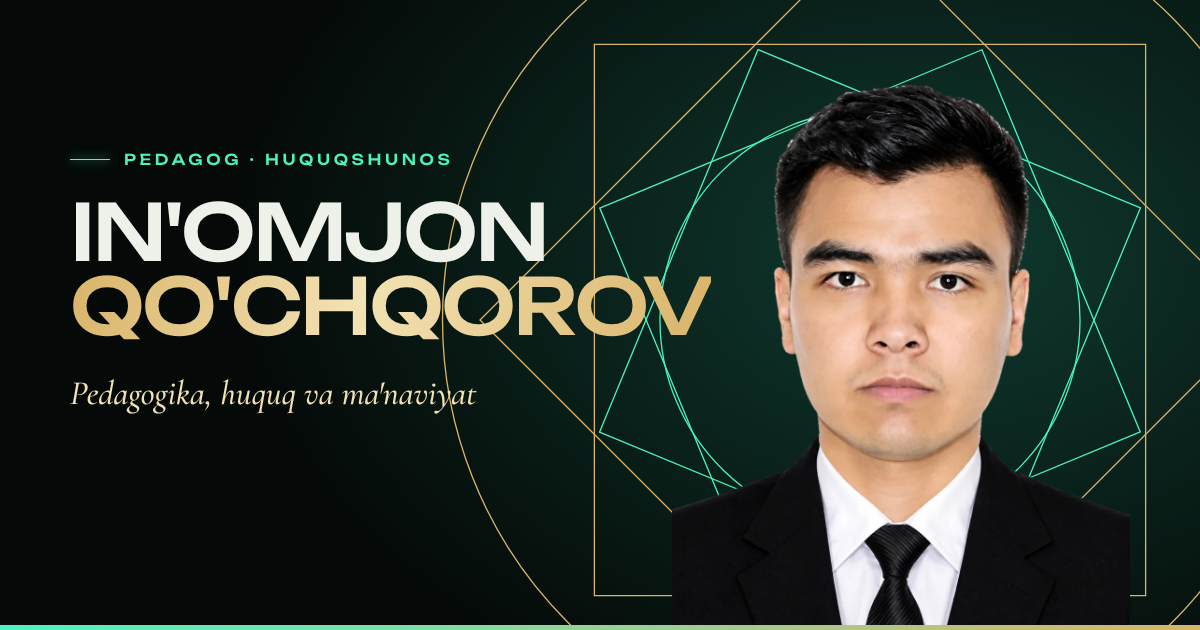
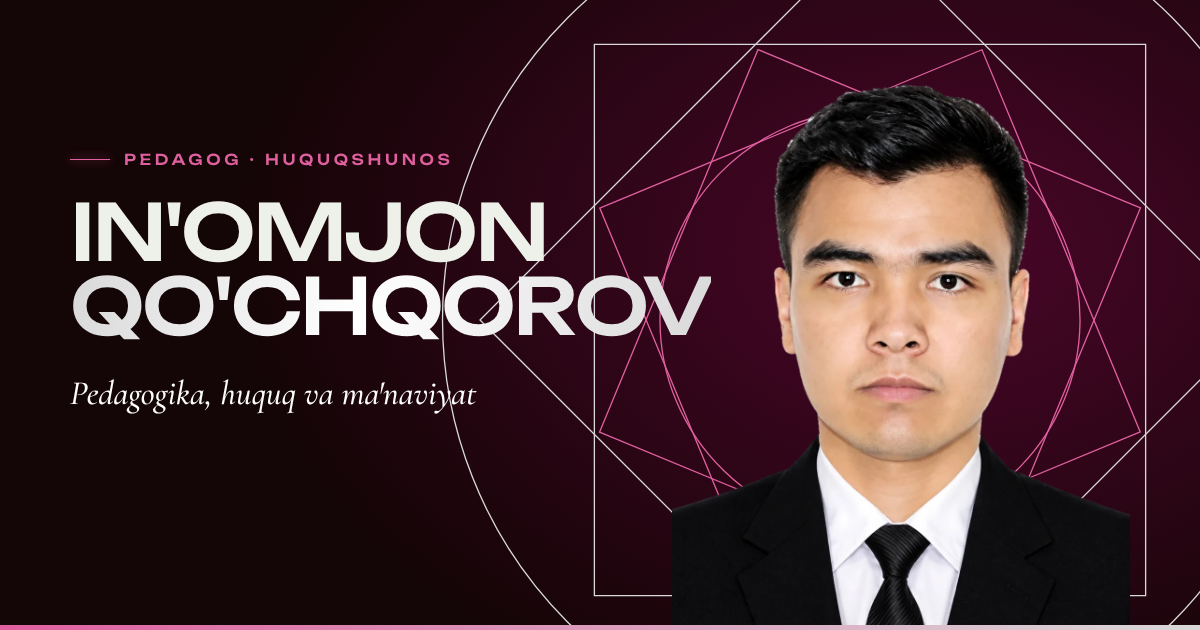
Add plum palette (default) with live palette switcher; keep emerald as option
Claude-Session: https://claude.ai/code/session_0118CwR9mdfuLAeK9pc92P3Z

diff --git a/src/styles.css b/src/styles.css
@@ -1,19 +1,31 @@
 /* ---------- tokens ---------- */
 @property --ang { syntax: '<angle>'; initial-value: 0deg; inherits: false; }
 :root {
-  --bg: #050a08;
-  --bg-2: #08130f;
-  --text: #eef1e9;
-  --muted: #9db0a6;
-  --line: rgba(238, 241, 233, 0.12);
-  --mint: #4df2c0;
-  --gold: #d9b46a;
-  --gold-hi: #f3e2b3;
+  /* default palette: "plum" — near-black, burgundy, plum, grey, light grey */
+  --bg: #140506; --bg-rgb: 20, 5, 6; --bg-2: #1d0509;
+  --text: #ece8e9; --text-rgb: 236, 232, 233;
+  --muted: #a8a0a3;
+  --mint: #e0609f; --mint-rgb: 224, 96, 159;          /* luminous accent (tint of the plum) */
+  --gold: #d9d9d9; --gold-rgb: 217, 217, 217;          /* light-grey "metal" */
+  --gold-hi: #ffffff; --gold-hot: #f4eef1;
+  --hero-1: #3a0420; --card-1: #2a0516; --card-2: #190408;
+  --gl-bg: .078, .02, .024; --gl-aur: .33, .01, .2; --gl-a: .88, .38, .62; --gl-b: .85, .85, .87;
+  --line: rgba(var(--text-rgb), .12);
   --display: 'Unbounded', 'Manrope', system-ui, sans-serif;
   --serif: 'Cormorant Garamond', 'Iowan Old Style', Georgia, serif;
   --sans: 'Manrope', system-ui, -apple-system, 'Segoe UI', Roboto, sans-serif;
   --ease: cubic-bezier(0.22, 1, 0.36, 1);
   color-scheme: dark;
+}
+:root[data-pal='emerald'] {
+  --bg: #050a08; --bg-rgb: 5, 10, 8; --bg-2: #08130f;
+  --text: #eef1e9; --text-rgb: 238, 241, 233;
+  --muted: #9db0a6;
+  --mint: #4df2c0; --mint-rgb: 77, 242, 192;
+  --gold: #d9b46a; --gold-rgb: 217, 180, 106;
+  --gold-hi: #f3e2b3; --gold-hot: #fff2c8;
+  --hero-1: #0d2b23; --card-1: #0e1c17; --card-2: #08110e;
+  --gl-bg: .016, .035, .03; --gl-aur: .02, .22, .16; --gl-a: .3, .95, .75; --gl-b: .85, .68, .38;
 }
 
 /* ---------- base ---------- */
@@ -35,7 +47,7 @@ button { font: inherit; color: inherit; background: none; border: 0; cursor: poi
 .skip { position: absolute; left: -999px; top: 8px; z-index: 100; background: var(--mint); color: var(--bg); padding: .6rem 1rem; border-radius: 8px; }
 .skip:focus { left: 8px; }
 
-#gl { position: fixed; inset: 0; width: 100%; height: 100%; z-index: -2; opacity: var(--gl, 1); background: radial-gradient(120% 90% at 70% 10%, #0d2b23, var(--bg) 60%); }
+#gl { position: fixed; inset: 0; width: 100%; height: 100%; z-index: -2; opacity: var(--gl, 1); background: radial-gradient(120% 90% at 70% 10%, var(--hero-1), var(--bg) 60%); }
 .progress { position: fixed; inset: 0 0 auto; height: 2px; z-index: 80; }
 .progress i { display: block; height: 100%; width: 100%; background: linear-gradient(90deg, var(--mint), var(--gold)); transform: scaleX(0); transform-origin: left; box-shadow: 0 0 12px var(--mint); }
 
@@ -47,16 +59,16 @@ button { font: inherit; color: inherit; background: none; border: 0; cursor: poi
 }
 /* cursor-following spotlight */
 .spot { position: relative; overflow: hidden; }
-.spot::before { content: ''; position: absolute; inset: 0; pointer-events: none; opacity: 0; transition: opacity .4s; background: radial-gradient(420px circle at var(--mx, 50%) var(--my, 50%), rgba(77, 242, 192, .16), transparent 60%); }
+.spot::before { content: ''; position: absolute; inset: 0; pointer-events: none; opacity: 0; transition: opacity .4s; background: radial-gradient(420px circle at var(--mx, 50%) var(--my, 50%), rgba(var(--mint-rgb), .16), transparent 60%); }
 .spot:hover::before { opacity: 1; }
 
 /* ---------- cursor ---------- */
 .cursor { display: none; }
 @media (hover: hover) and (pointer: fine) {
   .cursor { display: block; position: fixed; inset: 0; pointer-events: none; z-index: 90; }
-  .cursor i { position: absolute; left: 0; top: 0; width: 38px; height: 38px; margin: -19px 0 0 -19px; border: 1px solid rgba(77, 242, 192, .7); border-radius: 50%; transition: width .3s var(--ease), height .3s var(--ease), margin .3s var(--ease), background .3s, border-color .3s; mix-blend-mode: screen; opacity: 0; }
+  .cursor i { position: absolute; left: 0; top: 0; width: 38px; height: 38px; margin: -19px 0 0 -19px; border: 1px solid rgba(var(--mint-rgb), .7); border-radius: 50%; transition: width .3s var(--ease), height .3s var(--ease), margin .3s var(--ease), background .3s, border-color .3s; mix-blend-mode: screen; opacity: 0; }
   .cursor.on i { opacity: 1; }
-  .cursor.big i { width: 70px; height: 70px; margin: -35px 0 0 -35px; background: rgba(77, 242, 192, .12); border-color: var(--gold); }
+  .cursor.big i { width: 70px; height: 70px; margin: -35px 0 0 -35px; background: rgba(var(--mint-rgb), .12); border-color: var(--gold); }
 }
 
 /* ---------- header ---------- */
@@ -66,7 +78,7 @@ button { font: inherit; color: inherit; background: none; border: 0; cursor: poi
 .brand svg { width: 26px; height: 26px; color: var(--gold); transition: transform .8s var(--ease); }
 .brand:hover svg { transform: rotate(45deg); }
 .nav { display: flex; gap: 1.8rem; font-size: .84rem; font-weight: 600; letter-spacing: .03em; }
-.nav a { position: relative; padding: .3rem 0; color: rgba(238, 241, 233, .75); transition: color .2s; }
+.nav a { position: relative; padding: .3rem 0; color: rgba(var(--text-rgb), .75); transition: color .2s; }
 .nav a::after { content: ''; position: absolute; left: 0; right: 0; bottom: -2px; height: 1px; background: var(--mint); box-shadow: 0 0 8px var(--mint); transform: scaleX(0); transform-origin: left; transition: transform .45s var(--ease); }
 .nav a:hover { color: #fff; }
 .nav a:hover::after, .nav a.active::after { transform: scaleX(1); }
@@ -76,6 +88,10 @@ button { font: inherit; color: inherit; background: none; border: 0; cursor: poi
 .langs a { font: 600 .68rem/1 var(--display); letter-spacing: .06em; padding: .45rem .7rem; border-radius: 99px; transition: background .25s, color .25s; color: var(--muted); }
 .langs a:hover { color: #fff; }
 .langs a[aria-current] { background: linear-gradient(135deg, var(--gold-hi), var(--gold)); color: var(--bg); }
+.pal { display: flex; gap: .35rem; padding: 0 .3rem; }
+.pal button { width: 20px; height: 20px; border-radius: 50%; background: radial-gradient(circle at 35% 30%, #fff8, transparent 45%), var(--c); border: 2px solid transparent; outline: 1px solid rgba(var(--text-rgb), .25); outline-offset: 2px; transition: transform .3s var(--ease), outline-color .3s; }
+.pal button:hover { transform: scale(1.15); }
+.pal button[aria-pressed='true'] { outline: 2px solid var(--text); }
 .burger { display: none; position: relative; width: 40px; height: 40px; border-radius: 50%; }
 .burger span { position: absolute; left: 11px; right: 11px; height: 1.5px; background: currentColor; transition: transform .35s var(--ease), top .35s var(--ease); }
 .burger span:first-child { top: 16px; }
@@ -84,7 +100,7 @@ button { font: inherit; color: inherit; background: none; border: 0; cursor: poi
 .burger[aria-expanded='true'] span:last-child { top: 19px; transform: rotate(-45deg); }
 @media (max-width: 980px) {
   .burger { display: block; }
-  .nav { position: fixed; inset: 0; flex-direction: column; justify-content: center; gap: .4rem; padding: 6rem 2rem 3rem; background: rgba(5, 10, 8, .96); -webkit-backdrop-filter: blur(20px); backdrop-filter: blur(20px); opacity: 0; visibility: hidden; transition: opacity .35s, visibility .35s; z-index: -1; pointer-events: auto; }
+  .nav { position: fixed; inset: 0; flex-direction: column; justify-content: center; gap: .4rem; padding: 6rem 2rem 3rem; background: rgba(var(--bg-rgb), .96); -webkit-backdrop-filter: blur(20px); backdrop-filter: blur(20px); opacity: 0; visibility: hidden; transition: opacity .35s, visibility .35s; z-index: -1; pointer-events: auto; }
   .nav.open { opacity: 1; visibility: visible; }
   .nav a { font: 500 clamp(1.8rem, 8vw, 2.6rem)/1.2 var(--display); padding: .6rem 0; color: var(--text); }
 }
@@ -95,18 +111,18 @@ button { font: inherit; color: inherit; background: none; border: 0; cursor: poi
 .scene { position: relative; height: max(100svh, 700px); }
 .name { position: absolute; inset: 0; pointer-events: none; font: 500 clamp(2.1rem, min(10.2vw, 16.5svh), 10.5rem)/.9 var(--display); letter-spacing: -.035em; text-transform: uppercase; }
 .n1, .n2 { position: absolute; left: 0; right: 0; text-align: center; white-space: nowrap; display: block; }
-.n1 { bottom: calc(var(--sh) * .923 - .2em); z-index: 1; color: var(--text); text-shadow: 0 0 60px rgba(77, 242, 192, .25); }
-.n2 { bottom: calc(var(--sh) * .1); z-index: 4; background: linear-gradient(100deg, var(--gold) 5%, var(--gold-hi) 40%, var(--gold) 70%, #fff2c8 100%); background-size: 200% 100%; -webkit-background-clip: text; background-clip: text; color: transparent; filter: drop-shadow(0 6px 26px rgba(0, 0, 0, .75)); animation: shimmer 6s linear infinite; }
+.n1 { bottom: calc(var(--sh) * .923 - .2em); z-index: 1; color: var(--text); text-shadow: 0 0 60px rgba(var(--mint-rgb), .25); }
+.n2 { bottom: calc(var(--sh) * .1); z-index: 4; background: linear-gradient(100deg, var(--gold) 5%, var(--gold-hi) 40%, var(--gold) 70%, var(--gold-hot) 100%); background-size: 200% 100%; -webkit-background-clip: text; background-clip: text; color: transparent; filter: drop-shadow(0 6px 26px rgba(0, 0, 0, .75)); animation: shimmer 6s linear infinite; }
 
 .stage { position: absolute; left: 50%; bottom: 0; transform: translateX(-50%); height: var(--sh); aspect-ratio: 980 / 1264; z-index: 2; perspective: 1200px; }
-.halo { position: absolute; inset: -25% -45% 0; background: radial-gradient(closest-side at 50% 38%, rgba(77, 242, 192, .28), rgba(217, 180, 106, .10) 55%, transparent 75%); filter: blur(8px); transform: translate3d(calc(var(--tx, 0) * -14px), calc(var(--ty, 0) * -10px), 0); }
+.halo { position: absolute; inset: -25% -45% 0; background: radial-gradient(closest-side at 50% 38%, rgba(var(--mint-rgb), .28), rgba(var(--gold-rgb), .10) 55%, transparent 75%); filter: blur(8px); transform: translate3d(calc(var(--tx, 0) * -14px), calc(var(--ty, 0) * -10px), 0); }
 .orn { position: absolute; left: 50%; top: 44%; width: 150%; opacity: .7; -webkit-mask-image: radial-gradient(closest-side, #000 45%, transparent 100%); mask-image: radial-gradient(closest-side, #000 45%, transparent 100%); aspect-ratio: 1; translate: -50% -50%; fill: none; stroke-width: .3; pointer-events: none; transform: translate3d(calc(var(--tx, 0) * -22px), calc(var(--ty, 0) * -16px), 0); }
 .orn-a { stroke: var(--gold); transform-origin: 0 0; animation: spin 160s linear infinite; }
 .orn-b { stroke: var(--mint); transform-origin: 0 0; animation: spin 100s linear infinite reverse; }
 .orn polygon, .orn circle { stroke-dasharray: 1; stroke-dashoffset: 1; animation: draw 3s var(--ease) .6s forwards; }
 .portrait { position: absolute; inset: 0; transform-style: preserve-3d; transform: rotateY(calc(var(--tx, 0) * 7deg)) rotateX(calc(var(--ty, 0) * -5deg)); transition: transform .25s ease-out; animation: reveal 1.6s var(--ease) .15s both; }
-.portrait img { width: 100%; height: 100%; object-fit: contain; filter: drop-shadow(0 0 1px rgba(77, 242, 192, .55)) drop-shadow(0 30px 40px rgba(0, 0, 0, .6)); }
-.scan { position: absolute; left: -10%; right: -10%; top: 0; height: 2px; background: linear-gradient(90deg, transparent, var(--mint), transparent); box-shadow: 0 0 24px 4px rgba(77, 242, 192, .7); animation: scan 2.4s var(--ease) .3s both; opacity: 0; }
+.portrait img { width: 100%; height: 100%; object-fit: contain; filter: drop-shadow(0 0 1px rgba(var(--mint-rgb), .55)) drop-shadow(0 30px 40px rgba(0, 0, 0, .6)); }
+.scan { position: absolute; left: -10%; right: -10%; top: 0; height: 2px; background: linear-gradient(90deg, transparent, var(--mint), transparent); box-shadow: 0 0 24px 4px rgba(var(--mint-rgb), .7); animation: scan 2.4s var(--ease) .3s both; opacity: 0; }
 .hud { position: absolute; width: 26px; height: 26px; border: 0 solid var(--mint); opacity: .8; z-index: 3; }
 .hud.tl { left: -6%; top: 6%; border-width: 1.5px 0 0 1.5px; }
 .hud.tr { right: -6%; top: 6%; border-width: 1.5px 1.5px 0 0; }
@@ -124,16 +140,16 @@ button { font: inherit; color: inherit; background: none; border: 0; cursor: poi
 .btn { display: inline-flex; align-items: center; gap: .6rem; padding: .95rem 1.5rem; border-radius: 99px; font: 600 .82rem/1 var(--display); letter-spacing: .04em; border: 1px solid transparent; transition: transform .35s var(--ease), box-shadow .3s, border-color .3s, color .3s; will-change: transform; }
 .btn svg { width: 17px; height: 17px; transition: transform .35s var(--ease); }
 .btn:hover svg { transform: translate(3px, -3px); }
-.btn-gold { background: linear-gradient(135deg, var(--gold-hi), var(--gold)); color: var(--bg); box-shadow: 0 12px 40px -12px rgba(217, 180, 106, .7), 0 0 0 0 rgba(217, 180, 106, .5); }
-.btn-gold:hover { box-shadow: 0 18px 50px -10px rgba(217, 180, 106, .85), 0 0 0 6px rgba(217, 180, 106, .14); }
-.btn-ghost { border-color: rgba(238, 241, 233, .28); color: var(--text); background: rgba(255, 255, 255, .03); }
+.btn-gold { background: linear-gradient(135deg, var(--gold-hi), var(--gold)); color: var(--bg); box-shadow: 0 12px 40px -12px rgba(var(--gold-rgb), .7), 0 0 0 0 rgba(var(--gold-rgb), .5); }
+.btn-gold:hover { box-shadow: 0 18px 50px -10px rgba(var(--gold-rgb), .85), 0 0 0 6px rgba(var(--gold-rgb), .14); }
+.btn-ghost { border-color: rgba(var(--text-rgb), .28); color: var(--text); background: rgba(255, 255, 255, .03); }
 .btn-ghost:hover { border-color: var(--mint); color: var(--mint); }
 .chip { display: flex; align-items: center; gap: .9rem; padding: .85rem 1.1rem; border-radius: 18px; background: linear-gradient(155deg, rgba(255, 255, 255, .09), rgba(255, 255, 255, .025)); border: 1px solid rgba(255, 255, 255, .12); -webkit-backdrop-filter: blur(16px); backdrop-filter: blur(16px); animation-name: fade-up, float; animation-duration: 1s, 7s; animation-delay: var(--d), calc(var(--d) + 1s); animation-iteration-count: 1, infinite; animation-timing-function: var(--ease), ease-in-out; animation-fill-mode: both; transform: translate3d(calc(var(--tx, 0) * 12px), calc(var(--ty, 0) * 8px), 0); }
 .chip:nth-child(2) { margin-left: 1.6rem; animation-direction: normal, reverse; }
 .chip i { width: 10px; height: 10px; border-radius: 50%; background: var(--mint); box-shadow: 0 0 14px 2px var(--mint); flex: none; animation: pulse 2s ease-in-out infinite; }
 .chip b { display: block; font: 600 .78rem/1.3 var(--display); }
 .chip span { color: var(--muted); font-size: .85rem; }
-.scroll { position: absolute; left: max(1.5rem, 4.5vw); bottom: 26px; align-items: flex-start; z-index: 6; display: flex; flex-direction: column; gap: .6rem; font: 500 .62rem/1 var(--display); letter-spacing: .3em; text-transform: uppercase; color: rgba(238, 241, 233, .55); }
+.scroll { position: absolute; left: max(1.5rem, 4.5vw); bottom: 26px; align-items: flex-start; z-index: 6; display: flex; flex-direction: column; gap: .6rem; font: 500 .62rem/1 var(--display); letter-spacing: .3em; text-transform: uppercase; color: rgba(var(--text-rgb), .55); }
 .scroll i { width: 1px; height: 40px; background: linear-gradient(var(--mint), transparent); animation: drip 2.2s ease-in-out infinite; transform-origin: top; }
 
 @media (max-width: 960px) {
@@ -151,7 +167,7 @@ button { font: inherit; color: inherit; background: none; border: 0; cursor: poi
 
 /* ---------- marquee ---------- */
 .mq-wrap { overflow: hidden; padding: 1.6rem 0; margin-top: .5rem; }
-.marquee { position: relative; z-index: 2; overflow: hidden; border-block: 1px solid rgba(217, 180, 106, .25); background: linear-gradient(90deg, rgba(217, 180, 106, .10), rgba(77, 242, 192, .06), rgba(217, 180, 106, .10)); transform: rotate(-1.4deg) scale(1.03); margin: 0; -webkit-backdrop-filter: blur(8px); backdrop-filter: blur(8px); }
+.marquee { position: relative; z-index: 2; overflow: hidden; border-block: 1px solid rgba(var(--gold-rgb), .25); background: linear-gradient(90deg, rgba(var(--gold-rgb), .10), rgba(var(--mint-rgb), .06), rgba(var(--gold-rgb), .10)); transform: rotate(-1.4deg) scale(1.03); margin: 0; -webkit-backdrop-filter: blur(8px); backdrop-filter: blur(8px); }
 .mq-track { display: flex; width: max-content; animation: marquee 42s linear infinite; }
 .mq-row { display: flex; align-items: center; gap: 2.2rem; padding: 1.1rem 1.1rem; font: 600 clamp(1.6rem, 4vw, 3.2rem)/1 var(--display); text-transform: uppercase; letter-spacing: -.02em; white-space: nowrap; }
 .mq-row span { color: var(--text); }
@@ -160,20 +176,21 @@ button { font: inherit; color: inherit; background: none; border: 0; cursor: poi
 
 /* ---------- sections ---------- */
 .sec { padding: clamp(5rem, 10vw, 9rem) 0; position: relative; isolation: isolate; }
-.sec::before { content: ''; position: absolute; inset: 0; z-index: -1; pointer-events: none; background: radial-gradient(55% 45% at 90% 15%, rgba(77, 242, 192, .075), transparent 70%); }
-.sec:nth-of-type(even)::before { background: radial-gradient(55% 45% at 8% 20%, rgba(217, 180, 106, .08), transparent 70%); }
-.sec::after { content: ''; position: absolute; left: 50%; top: 0; width: min(1220px, 100% - 3rem); height: 1px; translate: -50% 0; background: linear-gradient(90deg, transparent, rgba(217, 180, 106, .35), rgba(77, 242, 192, .35), transparent); }
+.sec::before { content: ''; position: absolute; inset: 0; z-index: -1; pointer-events: none; background: radial-gradient(55% 45% at 90% 15%, rgba(var(--mint-rgb), .075), transparent 70%); }
+.sec:nth-of-type(even)::before { background: radial-gradient(55% 45% at 8% 20%, rgba(var(--gold-rgb), .08), transparent 70%); }
+.sec::after { content: ''; position: absolute; left: 50%; top: 0; width: min(1220px, 100% - 3rem); height: 1px; translate: -50% 0; background: linear-gradient(90deg, transparent, rgba(var(--gold-rgb), .35), rgba(var(--mint-rgb), .35), transparent); }
 #about::after { display: none; }
 .sec-head { margin-bottom: clamp(2.2rem, 5vw, 4rem); }
 .kicker { display: flex; align-items: center; gap: 1rem; color: var(--mint); font: 500 .72rem/1 var(--display); letter-spacing: .24em; text-transform: uppercase; margin-bottom: 1.4rem; }
-.kicker b { font-weight: 500; color: var(--gold); padding: .4rem .6rem; border: 1px solid rgba(217, 180, 106, .4); border-radius: 99px; letter-spacing: .1em; }
+.kicker b { font-weight: 500; color: var(--gold); padding: .4rem .6rem; border: 1px solid rgba(var(--gold-rgb), .4); border-radius: 99px; letter-spacing: .1em; }
 h2 { font: 500 clamp(1.8rem, 4.2vw, 3.4rem)/1.1 var(--display); letter-spacing: -.03em; max-width: 20ch; text-wrap: balance; }
 h3 { font: 500 1.2rem/1.3 var(--display); letter-spacing: -.01em; }
 
 .about { display: grid; grid-template-columns: 1fr 1fr; gap: clamp(2rem, 6vw, 6rem); align-items: center; }
-.photo { position: relative; border-radius: 28px; overflow: hidden; aspect-ratio: 4 / 4.4; border: 1px solid rgba(255, 255, 255, .12); box-shadow: 0 50px 90px -40px rgba(0, 0, 0, .9), 0 0 0 1px rgba(77, 242, 192, .06); }
-.photo img { position: absolute; left: -22%; top: 0; width: 150%; max-width: none; height: 100%; object-fit: cover; object-position: 55% 40%; transform: translate3d(0, calc(var(--py, 0) * 1px), 0) scale(1.08); }
-.photo::after { content: ''; position: absolute; inset: 0; background: repeating-linear-gradient(0deg, rgba(0, 0, 0, .12) 0 1px, transparent 1px 3px), linear-gradient(to top, rgba(5, 10, 8, .7), transparent 40%); pointer-events: none; mix-blend-mode: multiply; }
+.photo { position: relative; border-radius: 28px; overflow: hidden; aspect-ratio: 4 / 4.4; border: 1px solid rgba(255, 255, 255, .12); box-shadow: 0 50px 90px -40px rgba(0, 0, 0, .9), 0 0 0 1px rgba(var(--mint-rgb), .06); }
+.photo img { display: none; position: absolute; left: -22%; top: 0; width: 150%; max-width: none; height: 100%; object-fit: cover; object-position: 55% 40%; transform: translate3d(0, calc(var(--py, 0) * 1px), 0) scale(1.08); }
+:root:not([data-pal='emerald']) .photo .ph-plum, :root[data-pal='emerald'] .photo .ph-emerald { display: block; }
+.photo::after { content: ''; position: absolute; inset: 0; background: repeating-linear-gradient(0deg, rgba(0, 0, 0, .12) 0 1px, transparent 1px 3px), linear-gradient(to top, rgba(var(--bg-rgb), .7), transparent 40%); pointer-events: none; mix-blend-mode: multiply; }
 .photo .hud { left: auto; right: auto; }
 .photo .hud.tl { left: 18px; top: 18px; } .photo .hud.tr { right: 18px; top: 18px; } .photo .hud.bl { left: 18px; bottom: 18px; } .photo .hud.br { right: 18px; bottom: 18px; }
 .photo figcaption { position: absolute; left: 24px; bottom: 22px; z-index: 4; display: flex; align-items: center; gap: .6rem; font: 500 .72rem/1 var(--display); letter-spacing: .14em; text-transform: uppercase; color: var(--text); }
@@ -184,11 +201,11 @@ h3 { font: 500 1.2rem/1.3 var(--display); letter-spacing: -.01em; }
 @media (max-width: 880px) { .about { grid-template-columns: 1fr; } .photo { aspect-ratio: 4 / 3.4; } }
 
 .bento { display: grid; grid-template-columns: repeat(12, 1fr); gap: 1.1rem; }
-.card { grid-column: span 6; padding: 2.2rem 2.1rem 2.4rem; border-radius: 26px; min-height: 270px; transition: transform .6s var(--ease), border-color .4s; border: 1px solid transparent; background: linear-gradient(155deg, #0e1c17, #08110e) padding-box, conic-gradient(from var(--ang), rgba(255, 255, 255, .08) 0 55%, var(--mint) 75%, var(--gold) 90%, rgba(255, 255, 255, .08)) border-box; animation: ang 7s linear infinite; }
+.card { grid-column: span 6; padding: 2.2rem 2.1rem 2.4rem; border-radius: 26px; min-height: 270px; transition: transform .6s var(--ease), border-color .4s; border: 1px solid transparent; background: linear-gradient(155deg, var(--card-1), var(--card-2)) padding-box, conic-gradient(from var(--ang), rgba(255, 255, 255, .08) 0 55%, var(--mint) 75%, var(--gold) 90%, rgba(255, 255, 255, .08)) border-box; animation: ang 7s linear infinite; }
 .card:nth-child(1), .card:nth-child(4) { grid-column: span 7; }
 .card:nth-child(2), .card:nth-child(3) { grid-column: span 5; }
 .card:hover { transform: translateY(-8px); }
-.num { display: block; font: 600 clamp(2.6rem, 5vw, 4.2rem)/1 var(--display); color: transparent; -webkit-text-stroke: 1px rgba(217, 180, 106, .75); margin-bottom: 2.2rem; letter-spacing: -.03em; }
+.num { display: block; font: 600 clamp(2.6rem, 5vw, 4.2rem)/1 var(--display); color: transparent; -webkit-text-stroke: 1px rgba(var(--gold-rgb), .75); margin-bottom: 2.2rem; letter-spacing: -.03em; }
 .card h3 { margin-bottom: .8rem; max-width: 18ch; }
 .card p { color: var(--muted); font-size: 1rem; max-width: 40ch; }
 .card-orn { position: absolute; right: -50px; top: -50px; width: 220px; height: 220px; color: var(--mint); opacity: .18; transition: transform 1.2s var(--ease), opacity .5s; }
@@ -199,7 +216,7 @@ h3 { font: 500 1.2rem/1.3 var(--display); letter-spacing: -.01em; }
 .tl-line { position: absolute; left: 9px; top: 8px; bottom: 8px; width: 2px; background: var(--line); border-radius: 2px; }
 .tl-line b { position: absolute; inset: 0 0 auto; height: 0; background: linear-gradient(var(--mint), var(--gold)); box-shadow: 0 0 14px var(--mint); border-radius: 2px; }
 .tl { position: relative; display: grid; grid-template-columns: max-content 1fr; gap: clamp(1rem, 4vw, 3rem); align-items: center; }
-.tl-node { position: absolute; left: calc(-1 * clamp(2rem, 6vw, 5.5rem) + 1px); top: 50%; width: 18px; height: 18px; margin-top: -9px; border-radius: 50%; background: var(--bg); border: 2px solid var(--mint); box-shadow: 0 0 0 5px rgba(77, 242, 192, .12), 0 0 18px var(--mint); }
+.tl-node { position: absolute; left: calc(-1 * clamp(2rem, 6vw, 5.5rem) + 1px); top: 50%; width: 18px; height: 18px; margin-top: -9px; border-radius: 50%; background: var(--bg); border: 2px solid var(--mint); box-shadow: 0 0 0 5px rgba(var(--mint-rgb), .12), 0 0 18px var(--mint); }
 .tl-year { white-space: nowrap; font: 600 clamp(3rem, 8vw, 6.6rem)/1 var(--display); letter-spacing: -.05em; background: linear-gradient(120deg, var(--gold-hi), var(--gold) 50%, var(--mint)); -webkit-background-clip: text; background-clip: text; color: transparent; padding-right: .12em; }
 .tl-card { padding: 1.8rem 2rem; border-radius: 24px; }
 .tl-degree { color: var(--mint); font: 500 .7rem/1 var(--display); letter-spacing: .22em; text-transform: uppercase; margin-bottom: .9rem; }
@@ -228,9 +245,9 @@ h3 { font: 500 1.2rem/1.3 var(--display); letter-spacing: -.01em; }
 .contact-text { color: var(--muted); margin-top: 1.4rem; max-width: 46ch; }
 .links { border-top: 1px solid var(--line); }
 .link { display: grid; grid-template-columns: 52px 150px 1fr 28px; align-items: center; gap: 1.2rem; padding: 1.8rem .6rem; border-bottom: 1px solid var(--line); transition: padding .5s var(--ease), background .4s, color .3s; }
-.link:hover { padding-inline: 1.6rem; background: rgba(77, 242, 192, .05); }
+.link:hover { padding-inline: 1.6rem; background: rgba(var(--mint-rgb), .05); }
 .link-ic { color: var(--mint); display: grid; place-items: center; width: 52px; height: 52px; border: 1px solid var(--line); border-radius: 50%; transition: background .3s, color .3s, box-shadow .3s; }
-.link:hover .link-ic { background: var(--mint); color: var(--bg); box-shadow: 0 0 30px rgba(77, 242, 192, .5); }
+.link:hover .link-ic { background: var(--mint); color: var(--bg); box-shadow: 0 0 30px rgba(var(--mint-rgb), .5); }
 .link-l { font: 500 .68rem/1 var(--display); letter-spacing: .22em; text-transform: uppercase; color: var(--muted); }
 .link-v { font: 500 clamp(1.05rem, 2.6vw, 2rem)/1.2 var(--display); letter-spacing: -.03em; overflow-wrap: anywhere; }
 .link-a { color: var(--gold); transition: transform .4s var(--ease); }

diff --git a/src/main.js b/src/main.js
@@ -121,12 +121,27 @@
     }, { passive: true });
   }
 
+  /* ---------- colour theme ---------- */
+  let applyCols = () => {};
+  const metaTheme = $('meta[name="theme-color"]');
+  const palBtns = $$('.pal button');
+  const markPal = () => palBtns.forEach((b) => b.setAttribute('aria-pressed', String(b.dataset.pal === root.dataset.pal)));
+  markPal();
+  palBtns.forEach((b) => b.addEventListener('click', () => {
+    root.dataset.pal = b.dataset.pal;
+    store.set('pal', b.dataset.pal);
+    markPal();
+    applyCols();
+    if (metaTheme) metaTheme.content = getComputedStyle(root).getPropertyValue('--bg').trim();
+    if (reduce) window.dispatchEvent(new Event('resize'));
+  }));
+
   /* ---------- WebGL background: khatam energy lattice over emerald aurora ---------- */
   const canvas = $('#gl');
   const gl = canvas.getContext('webgl', { antialias: false, alpha: false, powerPreference: 'low-power' });
   const VS = 'attribute vec2 p;void main(){gl_Position=vec4(p,0.,1.);}';
   const FS = `precision highp float;
-uniform vec2 R;uniform float T;uniform vec2 M;
+uniform vec2 R;uniform float T;uniform vec2 M;uniform vec3 uBg;uniform vec3 uAur;uniform vec3 uA;uniform vec3 uB;
 mat2 rot(float a){float c=cos(a),s=sin(a);return mat2(c,-s,s,c);}
 float box(vec2 p,float b){vec2 d=abs(p)-b;return length(max(d,0.))+min(max(d.x,d.y),0.);}
 float hash(vec2 p){return fract(sin(dot(p,vec2(127.1,311.7)))*43758.5453);}
@@ -149,8 +164,8 @@ void main(){
   float dist=length(uv-ctr);
   float n=fbm(uv*1.4+vec2(T*.03,-T*.02));
   float n2=fbm(uv*2.2-vec2(T*.02,T*.04)+n*1.5);
-  vec3 emerald=vec3(.02,.22,.16),mint=vec3(.30,.95,.75),gold=vec3(.85,.68,.38);
-  vec3 col=vec3(.016,.035,.03);
+  vec3 emerald=uAur,mint=uA,gold=uB;
+  vec3 col=uBg;
   col+=emerald*smoothstep(.25,.95,n2)*(1.1-dist*.6);
   vec2 p=uv*3.6+mo*.05;p*=rot(T*.008);
   float l=lattice(p+vec2(T*.01,0.));
@@ -183,6 +198,19 @@ void main(){
         const uR = gl.getUniformLocation(prog, 'R');
         const uT = gl.getUniformLocation(prog, 'T');
         const uM = gl.getUniformLocation(prog, 'M');
+        const uBg = gl.getUniformLocation(prog, 'uBg');
+        const uAur = gl.getUniformLocation(prog, 'uAur');
+        const uA = gl.getUniformLocation(prog, 'uA');
+        const uB = gl.getUniformLocation(prog, 'uB');
+        applyCols = () => {
+          const cs = getComputedStyle(root);
+          const v = (n) => cs.getPropertyValue(n).split(',').map(Number);
+          gl.uniform3fv(uBg, v('--gl-bg'));
+          gl.uniform3fv(uAur, v('--gl-aur'));
+          gl.uniform3fv(uA, v('--gl-a'));
+          gl.uniform3fv(uB, v('--gl-b'));
+        };
+        applyCols();
         let w = 0, h = 0;
         const resize = () => {
           const s = Math.min(devicePixelRatio || 1, 1.5) * (innerWidth < 700 ? 0.6 : 0.75);
